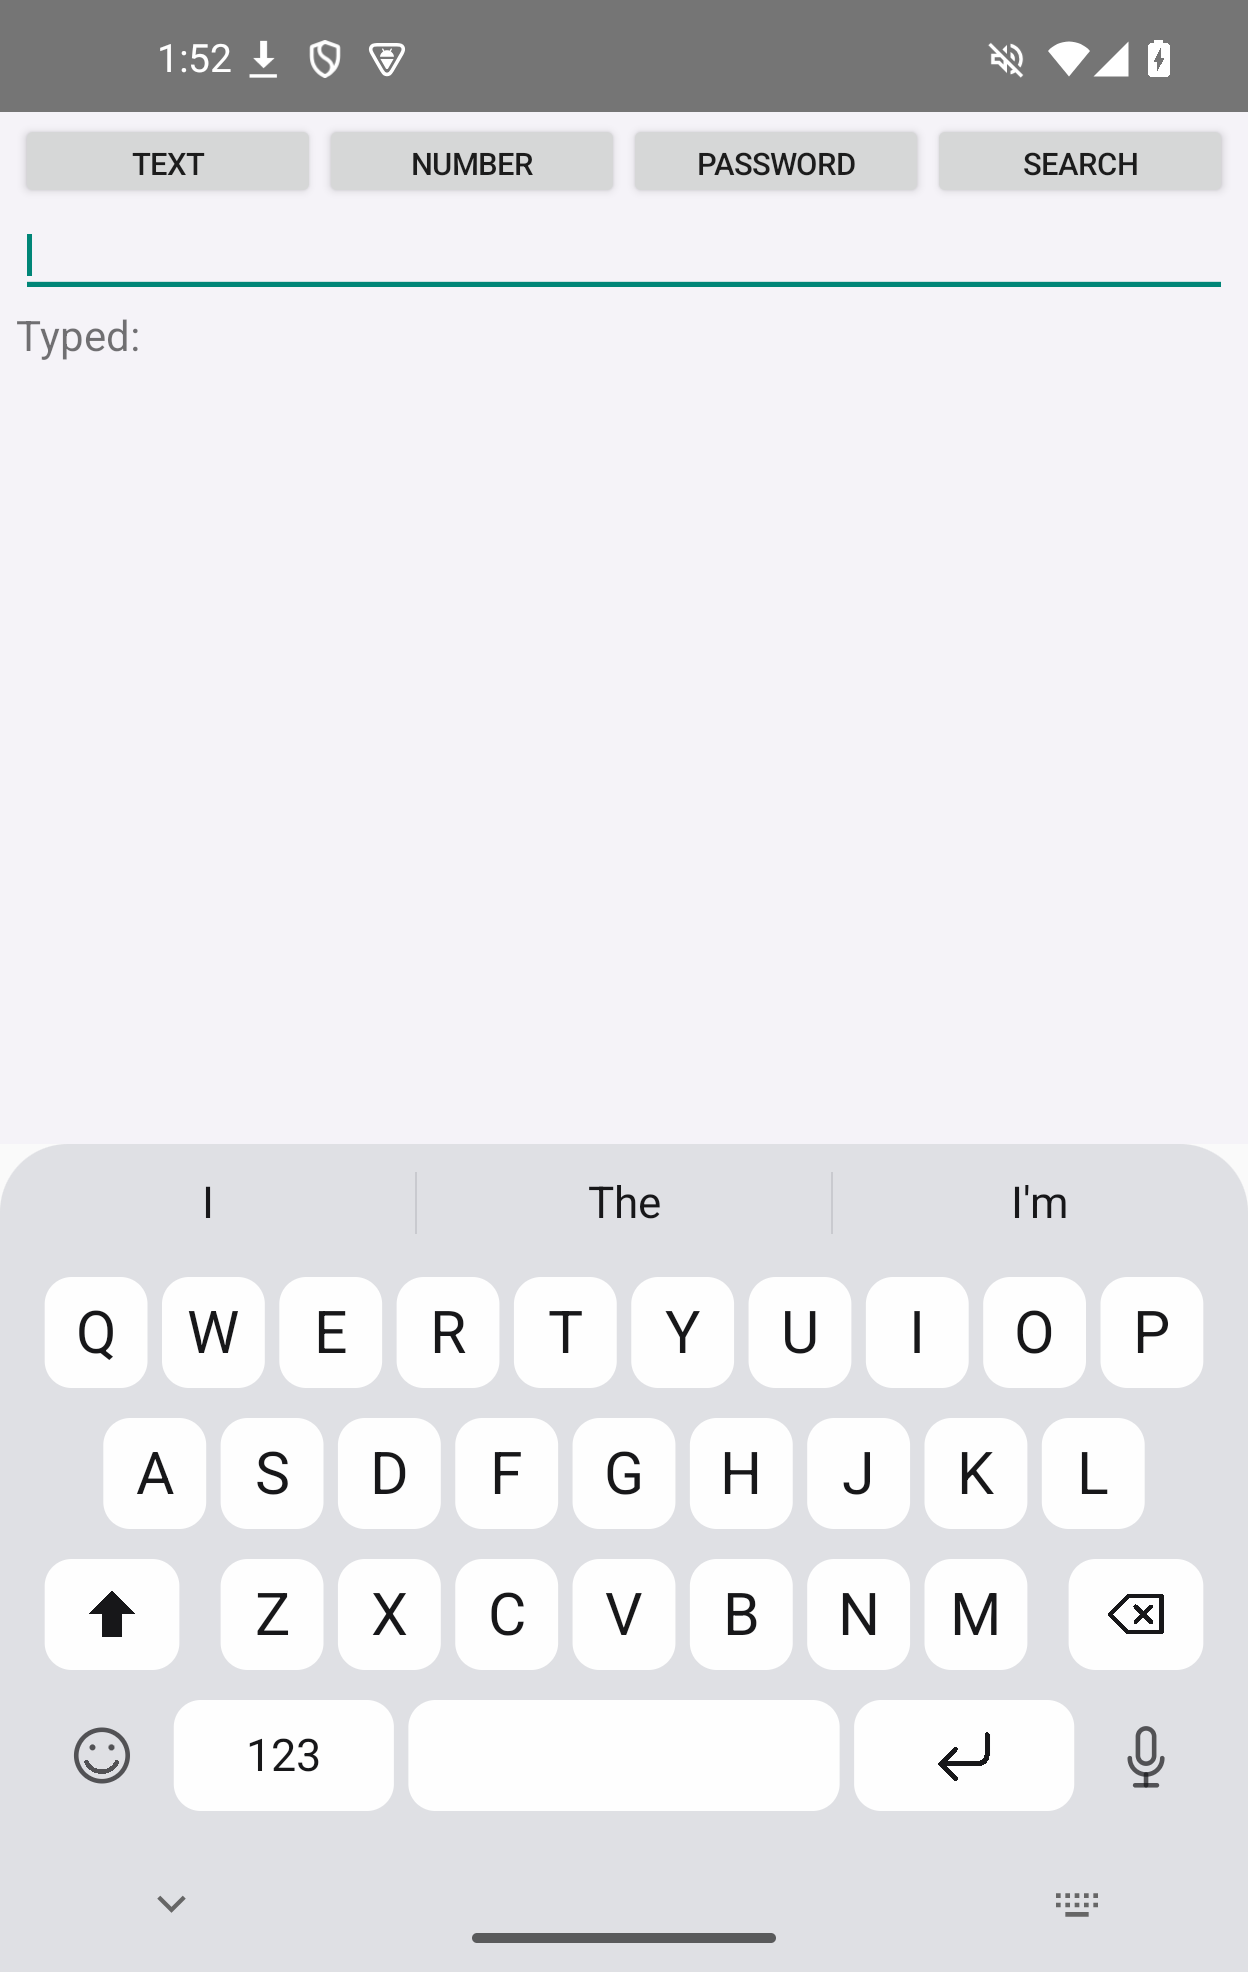
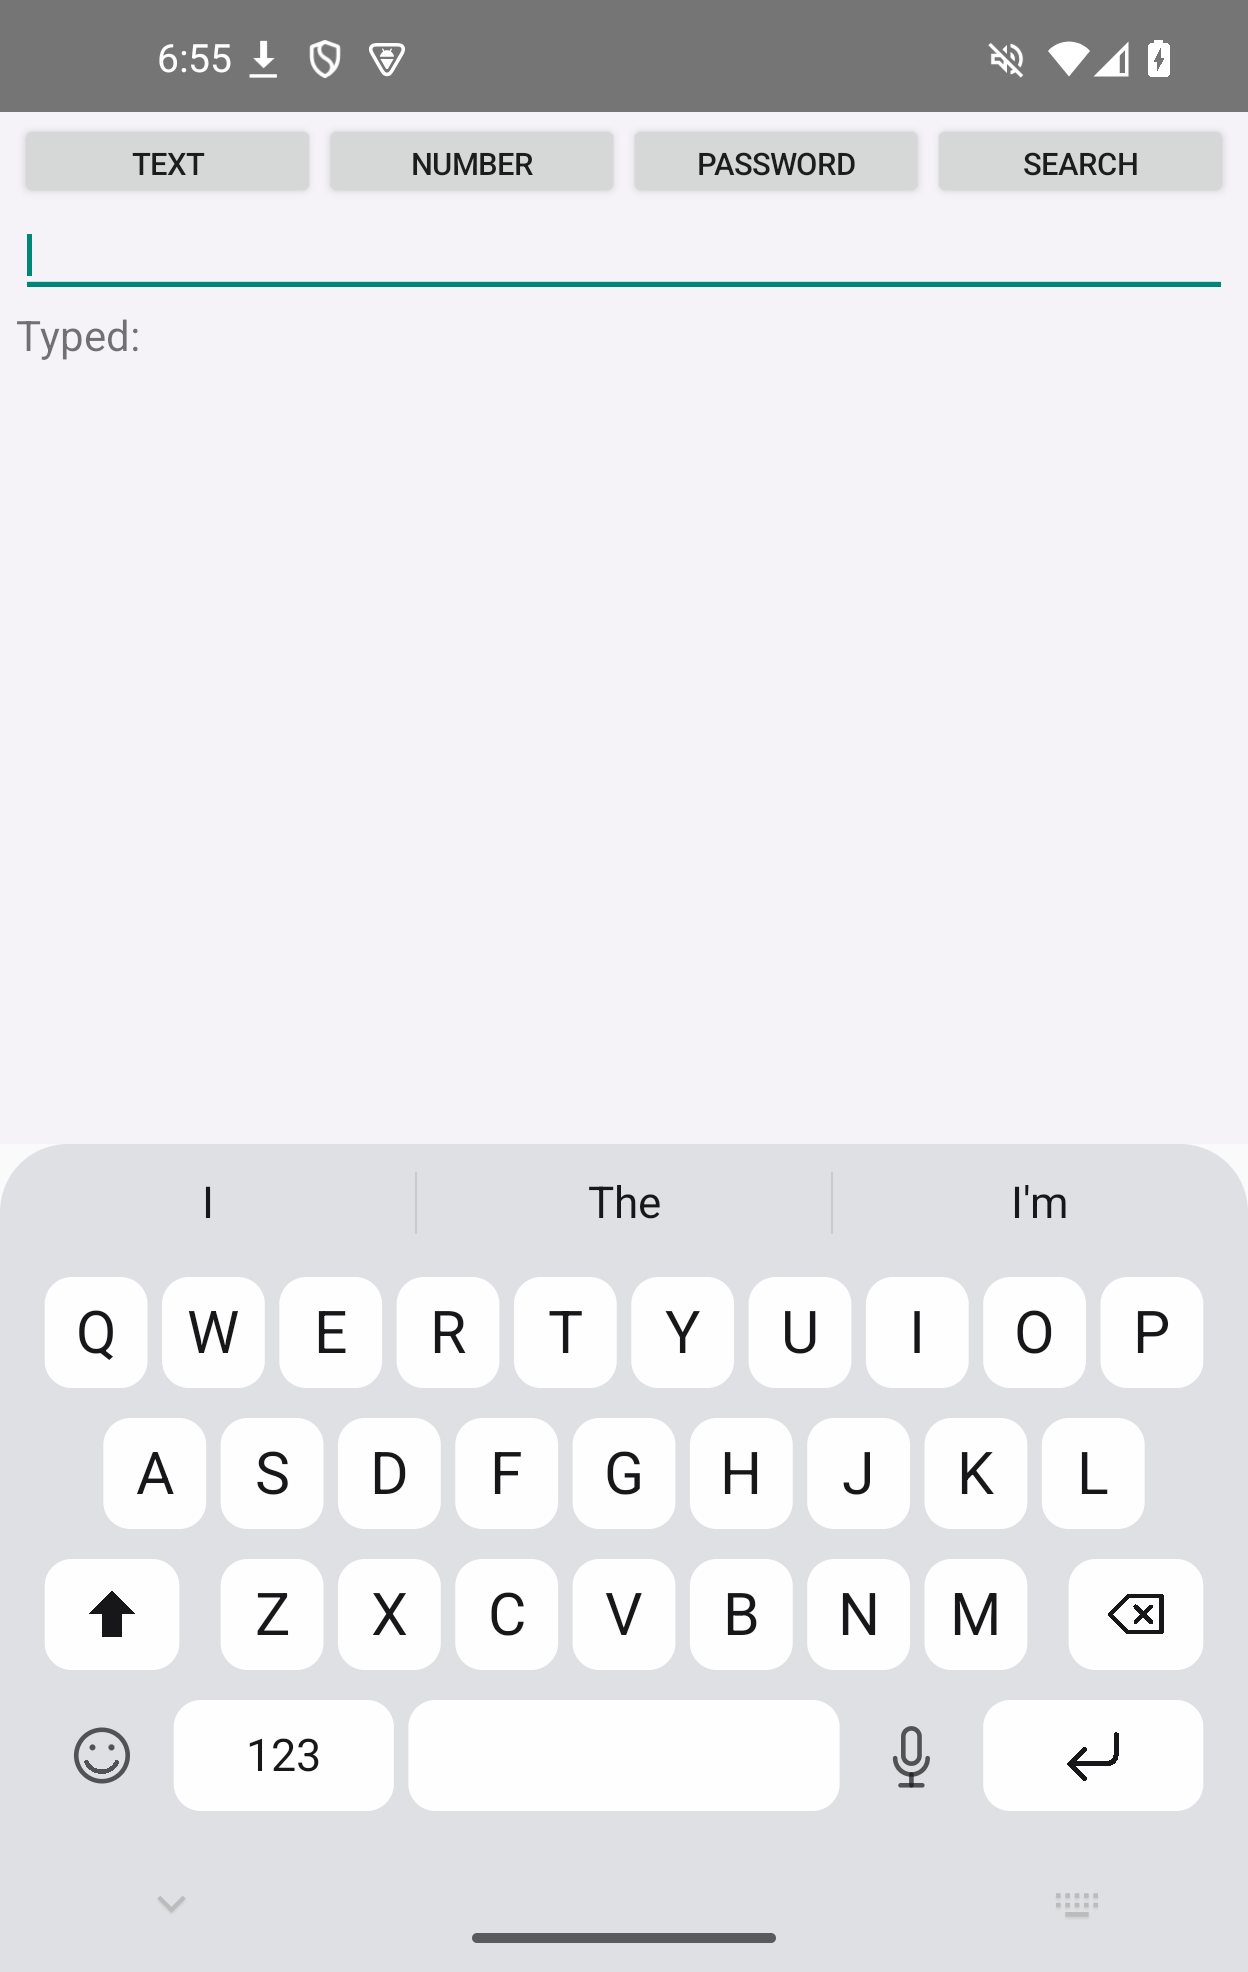
Add tablet number row and move Enter to the right edge

Changed region(s): [[0.8438, 0.8352, 0.9688, 0.928], [0.6875, 0.8352, 0.8125, 0.928], [0.8438, 0.9589, 0.875, 0.9899]]

diff --git a/app/src/main/java/dev/softkeys/ios/IosKeyboardService.java b/app/src/main/java/dev/softkeys/ios/IosKeyboardService.java
@@ -85,7 +85,7 @@ public class IosKeyboardService extends InputMethodService {
         if(Build.VERSION.SDK_INT>=30){CharSequence initial=info.getInitialTextBeforeCursor(256,0);if(initial!=null)before.append(initial);}
         updateShift();refreshSuggestions();scheduleContextRead();rebuild();
     }
-    @Override public void onStartInputView(EditorInfo info,boolean restarting){super.onStartInputView(info,restarting);palette();updateShift();if(keyboard!=null&&keyboard.keys.isEmpty())rebuild();}
+    @Override public void onStartInputView(EditorInfo info,boolean restarting){super.onStartInputView(info,restarting);palette();updateShift();if(keyboard!=null){if(keyboard.keys.isEmpty())rebuild();else keyboard.requestLayout();}}
     @Override public void onFinishInput(){activeInput=false;decodingGlide=false;pendingActions.clear();revision++;handler.removeCallbacks(readContext);handler.removeCallbacks(suggestTask);clearCorrection();glideLength=0;super.onFinishInput();}
     @Override public void onFinishInputView(boolean finishing){decodingGlide=false;pendingActions.clear();revision++;handler.removeCallbacks(readContext);if(keyboard!=null)keyboard.cancelTouches();super.onFinishInputView(finishing);}
     @Override public void onDestroy(){worker.shutdownNow();reader.shutdownNow();handler.removeCallbacksAndMessages(null);super.onDestroy();}
@@ -358,7 +358,7 @@ public class IosKeyboardService extends InputMethodService {
                 keyRadius=dp(9.5f);topRadius=dp(24);
             }
             categoryH=dp(34);contentWidth=width-2*contentLeft;
-            int height=Math.round(suggestionH+rowH*4+(emoji?categoryH:0)+navBottom+dp(4));
+            int height=Math.round(suggestionH+rowH*(4+numberRowOffset())+(emoji?categoryH:0)+navBottom+dp(4));
             setMeasuredDimension((int)width,height);
             if(wasWide!=wide)palette();
             if(layoutWidth!=(int)width||layoutHeight!=height){
@@ -381,27 +381,29 @@ public class IosKeyboardService extends InputMethodService {
                 float top=suggestionH+rowH*3;for(int i=0;i<EmojiCatalog.NAMES.length;i++)keys.add(new Key("cat:"+i,width*i/10,top,width*(i+1)/10,top+categoryH,true));
                 rowAt(new String[]{"ABC","emojiprev","emojinext","space","delete","return"},top+categoryH,contentLeft,contentWidth,new float[]{1.5f,1,1,3.5f,1.5f,1.5f});
             }else{
+                if(numberRowOffset()>0)rowAt(chars("1234567890"),suggestionH,contentLeft,contentWidth,null);
                 if(!symbols){
                     row(chars("qwertyuiop"),0,contentLeft,contentWidth,null);
                     row(chars("asdfghjkl"),1,contentLeft+contentWidth*.05f,contentWidth*.9f,null);
                     row(new String[]{"shift","z","x","c","v","b","n","m","delete"},2,contentLeft,contentWidth,new float[]{1.5f,1,1,1,1,1,1,1,1.5f});
                 }else{
-                    row(second?new String[]{"[","]","{","}","#","%","^","*","+","="}:chars("1234567890"),0,contentLeft,contentWidth,null);
-                    row(second?new String[]{"_","\\","|","~","<",">","€","£","¥","•"}:new String[]{"-","/",":",";","(",")","$","&","@","\""},1,contentLeft,contentWidth,null);
+                    row(second?new String[]{"[","]","{","}","#","%","^","*","+","="}:chars(numberRowOffset()>0?"!@#$%^&*()":"1234567890"),0,contentLeft,contentWidth,null);
+                    row(second?new String[]{"_","\\","|","~","<",">","€","£","¥","•"}:numberRowOffset()>0?new String[]{"-","/",":",";","[","]","+","=","_","\""}:new String[]{"-","/",":",";","(",")","$","&","@","\""},1,contentLeft,contentWidth,null);
                     row(new String[]{"more",".",",","?","!","'","delete"},2,contentLeft,contentWidth,new float[]{1.7f,1,1,1,1,1,1.5f});
                 }
-                row(new String[]{"emoji",symbols?"ABC":"123","space","return","voice"},3,contentLeft,contentWidth,wide?new float[]{.7f,1.5f,5.6f,1.5f,.7f}:new float[]{1.1f,2,3.8f,2,1.1f});
+                row(new String[]{"emoji",symbols?"ABC":"123","space","voice","return"},3,contentLeft,contentWidth,wide?new float[]{.7f,1.5f,5.6f,.7f,1.5f}:new float[]{1.1f,2,3.8f,1.1f,2});
             }
             invalidate();sendAccessibilityEvent(AccessibilityEvent.TYPE_WINDOW_CONTENT_CHANGED);
         }
         private String[] chars(String text){String[] a=new String[text.length()];for(int i=0;i<a.length;i++)a[i]=text.substring(i,i+1);return a;}
-        private void row(String[] labels,int n,float x,float w,float[] weights){rowAt(labels,suggestionH+n*rowH,x,w,weights);}
+        private int numberRowOffset(){return wide&&!numeric&&!emoji&&prefs.getBoolean("tabletNumberRow",true)?1:0;}
+        private void row(String[] labels,int n,float x,float w,float[] weights){rowAt(labels,suggestionH+(n+numberRowOffset())*rowH,x,w,weights);}
         private void rowAt(String[] labels,float y,float x,float w,float[] weights){
             float total=0;for(int i=0;i<labels.length;i++)total+=weights==null?1:weights[i];
             for(int i=0;i<labels.length;i++){float end=x+w*(weights==null?1:weights[i])/total;String s=labels[i];keys.add(new Key(s,x,y,end,y+rowH,s.length()>1&&!s.equals("space")));x=end;}
         }
         void invalidateHeader(){invalidate(0,0,getWidth(),(int)suggestionH+1);}
-        void invalidateLetters(){invalidate(0,(int)suggestionH,getWidth(),Math.round(suggestionH+rowH*3));}
+        void invalidateLetters(){invalidate(0,(int)suggestionH,getWidth(),Math.round(suggestionH+rowH*(3+numberRowOffset())));}
         private void invalidateKey(Key key){invalidate((int)key.box.left-dp(2),(int)key.box.top-dp(2),(int)key.box.right+dp(2),(int)key.box.bottom+dp(2));}
         private boolean letter(Key k){return k!=null&&k.value.length()==1&&k.value.charAt(0)>='a'&&k.value.charAt(0)<='z'&&!symbols&&!emoji&&!numeric;}
         private String label(Key k){

diff --git a/app/src/main/java/dev/softkeys/ios/MainActivity.java b/app/src/main/java/dev/softkeys/ios/MainActivity.java
@@ -64,6 +64,8 @@ public class MainActivity extends Activity {
         for(int i=0;i<names.length;i++){RadioButton radio=new RadioButton(this);radio.setText(names[i]);radio.setTextColor(ink);radio.setId(100+values[i]);themes.addView(radio,new RadioGroup.LayoutParams(-1,dp(44)));if(prefs.getInt("theme",3)==values[i])radio.setChecked(true);}
         themes.setOnCheckedChangeListener((g,id)->prefs.edit().putInt("theme",id-100).apply());page.addView(themes);
         page.addView(text("Reference uses light gray on narrow displays and lavender on wide displays.",13,muted));gap(8);
+        toggle("Tablet number row", "tabletNumberRow", true);
+        page.addView(text("Show a dedicated number row on wide displays, including unfolded phones.",13,muted));gap(8);
         toggle("Haptic feedback", "haptic", true);
         toggle("Key popups", "keyPopups", true);
         TextView holdLabel=text("Touch and hold duration: "+KeyboardPreferences.holdDelay(prefs)+" ms",16,ink);page.addView(holdLabel);gap(4);

diff --git a/README.md b/README.md
@@ -6,11 +6,11 @@ An iOS-inspired English keyboard for Android, with local autocorrect, glide typi
 
 [Download the latest APK](https://github.com/gitcommit90/softkeys/releases/latest) | [Release notes](CHANGELOG.md) | [Development](docs/development.md)
 
-SoftKeys runs on Android 8.0 and later. Typing and predictions stay on the device, and the app has no network permission. The current release is **1.4**.
+SoftKeys runs on Android 8.0 and later. Typing and predictions stay on the device, and the app has no network permission. The current release is **1.5**.
 
 ## Appearance
 
-The default Reference theme uses light gray with white keys on narrow displays and lavender on wide displays. Both layouts use continuous rows with one space bar. Dark, Lavender, and System themes are also available.
+The default Reference theme uses light gray with white keys on narrow displays and lavender on wide displays. Both layouts use continuous rows with one space bar. Wide displays include a dedicated number row by default. Enter sits at the far right of the bottom row, with the microphone beside Space. Dark, Lavender, and System themes are also available.
 
 <table>
   <tr>
@@ -23,11 +23,11 @@ The default Reference theme uses light gray with white keys on narrow displays a
   </tr>
 </table>
 
-The captures show the Reference layout introduced in 1.3, which is retained in 1.4. They use a sample editor and contain no personal messages.
+The captures show the 1.5 Reference layout on narrow and wide displays. They use a sample editor and contain no personal messages.
 
 ## Install
 
-1. Download `SoftKeys-1.4.apk` from [Releases](https://github.com/gitcommit90/softkeys/releases/latest). GitHub sign-in and access to this private repository are required.
+1. Download `SoftKeys-1.5.apk` from [Releases](https://github.com/gitcommit90/softkeys/releases/latest). GitHub sign-in and access to this private repository are required.
 2. Open the APK on your Android device and allow installation from your browser or file manager if Android asks.
 3. Open SoftKeys, choose **Enable SoftKeys**, then choose **Choose SoftKeys**.
 4. Open a text field to start typing, or use the sample field in the SoftKeys app.
@@ -54,6 +54,8 @@ Glide entry and suggestions remain available in email fields and recognized term
 ## Settings
 
 Open SoftKeys to change appearance and typing preferences. The app has separate switches for autocorrect, glide typing, automatic capitalization, double-space periods, haptic feedback, and key popups.
+
+The **Tablet number row** switch controls the dedicated digits on wide displays, including unfolded phones. It is enabled by default and does not add a row to narrow phone layouts. The row stays visible when switching between letters and symbols.
 
 Touch and hold duration defaults to **300 ms**. Set it from 150 to 1000 ms in 25 ms steps. The setting applies to accents, emoji variants, cursor control, held Shift, and repeated deletion. Turning off automatic capitalization leaves manual Shift and Caps Lock available.
 

diff --git a/CHANGELOG.md b/CHANGELOG.md
@@ -1,5 +1,15 @@
 # Release notes
 
+## 1.5
+
+Added a dedicated 1 through 0 number row on wide displays, including unfolded phones. The row is enabled by default and can be turned off with the Tablet number row switch. Digits stay visible on both symbol pages so switching between letters and symbols keeps the same keyboard height. Narrow phone layouts retain their existing row count.
+
+Swapped the microphone and Enter positions on the letter and symbol layouts. Enter is now the wide key at the far right, and the microphone sits beside Space.
+
+The microphone continues to switch to Android's enabled voice input keyboard. Devices using Google voice typing will show Google's dictation panel. SoftKeys does not implement its own speech recognition.
+
+The release build completed, and native Android captures were reviewed at 1248 by 1972 and 1822 by 1376 pixels. The captures show the phone layout, the tablet number row, and the tablet symbol page. No automated tests were added or run.
+
 ## 1.4
 
 ### Typing controls

diff --git a/docs/development.md b/docs/development.md
@@ -40,6 +40,7 @@ Autocorrect, glide typing, and field privacy are handled separately. Changes to 
 | Key | Default | Purpose |
 | --- | --- | --- |
 | `theme` | `3` | Reference appearance. Dark is 0, Lavender is 1, and System is 2. |
+| `tabletNumberRow` | `true` | Dedicated digits on layouts at least 600 dp wide. Also retained on symbol pages. |
 | `autocorrect` | `true` | Automatic spelling replacements. |
 | `glide` | `true` | Gesture word entry. |
 | `autocaps` | `true` | Capitalization requested by the editor. |
